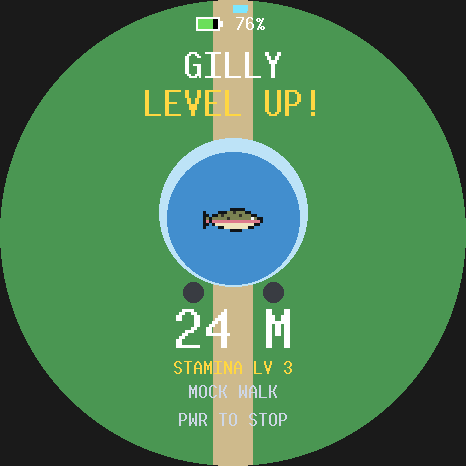
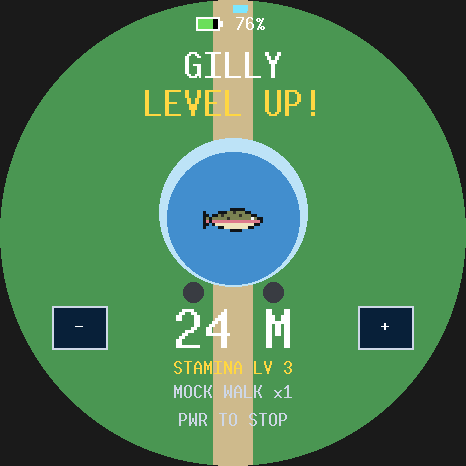
pals_game: mock walks fast-forward. The town's MOCK WALK steps x1, x2, x5, x10, x25 and then off; - and + on the walk screen change the pace mid-walk, and the pace is saved with the setting (PALS flags bits 1-3)

Changed region(s): [[0.0901, 0.6309, 0.2403, 0.7511], [0.7511, 0.6309, 0.9013, 0.7511], [0.3605, 0.8112, 0.6309, 0.8712]]

diff --git a/crates/pals_game/src/walk.rs b/crates/pals_game/src/walk.rs
@@ -13,10 +13,10 @@ use orbit_core::{
 };
 use orbit_gfx::{Point, Rgb565, SCREEN_CENTER, Shape};
 use orbit_ui::{
-    CLICK, DEEP, GOLD, HINT, TEXT, TOAST, battery_level, dial_choice, dial_point, disc, label,
-    label_at, power_overlay, rect, rgb,
+    CLICK, DEEP, GOLD, HINT, TEXT, TOAST, battery_level, button, dial_choice, dial_point, disc,
+    label, label_at, power_overlay, rect, rgb,
 };
-use pals::{MockWalk, Pals, Trail};
+use pals::{MOCK_PACES, MockWalk, Pals, Trail};
 
 use crate::fish;
 
@@ -32,6 +32,14 @@ const LEVEL_UP_SECS: f32 = 10.0;
 /// Without a fix this long, the walk suggests a mock walk.
 pub const NO_SKY_SECS: f32 = 60.0;
 const NAME_RING: f32 = 160.0;
+
+pub mod ui {
+    pub use orbit_ui::Button;
+
+    /// On a mock walk: fast-forward it, or slow it back down.
+    pub const SLOWER: Button = Button::new(52, 306, 56, 44, "-");
+    pub const FASTER: Button = Button::new(358, 306, 56, 44, "+");
+}
 
 #[derive(Clone, Debug, PartialEq)]
 pub enum WalkPhase {
@@ -136,7 +144,7 @@ fn stroll(
                     next = Some(WalkPhase::Walking {
                         pet,
                         trail: Trail::default(),
-                        mock: mock_walk.then(MockWalk::default),
+                        mock: mock_walk.then(|| MockWalk::at_pace(MOCK_PACES[pals.mock_pace])),
                         fraction_m: 0.0,
                         unsaved_m: 0.0,
                         secs: 0.0,
@@ -162,6 +170,21 @@ fn stroll(
             from_level,
         } => {
             *secs += dt;
+            if let Some(mock) = mock.as_mut() {
+                let faster = tap.is_some_and(|at| ui::FASTER.hit(at));
+                let slower = tap.is_some_and(|at| ui::SLOWER.hit(at));
+                let pace = match (faster, slower) {
+                    (true, _) => (pals.mock_pace + 1).min(MOCK_PACES.len() - 1),
+                    (_, true) => pals.mock_pace.saturating_sub(1),
+                    _ => pals.mock_pace,
+                };
+                if pace != pals.mock_pace {
+                    pals.mock_pace = pace;
+                    mock.set_pace(MOCK_PACES[pace]);
+                    save = true;
+                    sound.play(&CLICK);
+                }
+            }
             let fix = match mock {
                 Some(mock) => mock.step(dt),
                 None => fix,
@@ -180,7 +203,7 @@ fn stroll(
                 *levelled_at = Some(*secs);
                 sound.play(&angler_game::audio::CATCH);
             }
-            save = *unsaved_m >= SAVE_EVERY_M || pressed;
+            save |= *unsaved_m >= SAVE_EVERY_M || pressed;
             if save {
                 *unsaved_m = 0.0;
             }
@@ -243,7 +266,7 @@ fn draw_frame(
             let level = format!("STAMINA LV {}", fish.stamina_level());
             shapes.push(label(368, &level, 1, GOLD));
             let status = match (mock, gps.latest()) {
-                (Some(_), _) => "MOCK WALK".into(),
+                (Some(mock), _) => format!("MOCK WALK x{}", mock.pace() as u32),
                 (None, Some(_)) => format!("SATELLITES {}", gps.satellites),
                 (None, None) if *secs >= NO_SKY_SECS => "NO SKY? TRY MOCK WALK".into(),
                 (None, None) => "LOOKING FOR THE SKY".into(),
@@ -253,6 +276,10 @@ fn draw_frame(
                 shapes.push(label(104, "LEVEL UP!", 2, GOLD));
             }
             shapes.push(label(420, "PWR TO STOP", 1, HINT));
+            if mock.is_some() {
+                button(shapes, &ui::SLOWER);
+                button(shapes, &ui::FASTER);
+            }
         }
         WalkPhase::Done {
             pet,

diff --git a/crates/pals_game/tests/walk.rs b/crates/pals_game/tests/walk.rs
@@ -67,7 +67,7 @@ fn a_mock_walk_strolls_on_its_own_and_counts_for_the_fish() {
     let mut app = park(&[("GILLY", 0.0)], true);
     assert!(shows(&app, "WHO IS WALKING?"));
     start_walking(&mut app);
-    assert!(shows(&app, "MOCK WALK"));
+    assert!(shows(&app, "MOCK WALK x1"));
     tick(&mut app, 60 * 120);
     let metres = walked(&app, 0);
     assert!((140..=200).contains(&metres), "two minutes made {metres} m");
@@ -142,4 +142,65 @@ fn done_goes_back_to_choosing_and_back_leaves() {
     app.update();
     click_action(&mut app);
     assert_eq!(app.should_exit(), Some(AppExit::Success));
+}
+
+fn park_at_pace(pace: usize) -> App {
+    let mut tank = Pals::default();
+    tank.mock_walk = true;
+    tank.mock_pace = pace;
+    tank.keep(Pet::new(
+        1,
+        0,
+        150,
+        50,
+        name("GILLY"),
+        &mut orbit_core::Rng::new(2),
+    ))
+    .unwrap();
+    let mut blob = SaveBlob::from_storage(None);
+    pals::save::store(&mut blob, &tank);
+    headless(
+        |app| {
+            app.add_plugins(WalkPlugin);
+        },
+        blob.take_pending(),
+    )
+}
+
+#[test]
+fn a_faster_mock_walk_covers_more_ground_in_the_same_time() {
+    let mut slow = park_at_pace(0);
+    start_walking(&mut slow);
+    assert!(shows(&slow, "MOCK WALK x1"));
+    tick(&mut slow, 60 * 30);
+    let mut fast = park_at_pace(3);
+    start_walking(&mut fast);
+    assert!(shows(&fast, "MOCK WALK x10"));
+    tick(&mut fast, 60 * 30);
+    let (slow_m, fast_m) = (walked(&slow, 0), walked(&fast, 0));
+    assert!((30..=48).contains(&slow_m), "x1 walked {slow_m} m");
+    assert!(fast_m > slow_m * 8, "x10 walked {fast_m} m");
+}
+
+#[test]
+fn faster_and_slower_change_the_pace_mid_walk_and_its_remembered() {
+    let mut app = park_at_pace(0);
+    start_walking(&mut app);
+    tap(&mut app, pals_game::walk::ui::FASTER.center());
+    tap(&mut app, pals_game::walk::ui::FASTER.center());
+    assert!(shows(&app, "MOCK WALK x5"));
+    tap(&mut app, pals_game::walk::ui::SLOWER.center());
+    assert!(shows(&app, "MOCK WALK x2"));
+    let pending = app.world_mut().resource_mut::<SaveBlob>().take_pending();
+    assert_eq!(
+        pals::save::load(&SaveBlob::from_storage(pending)).mock_pace,
+        1
+    );
+}
+
+#[test]
+fn a_real_walk_has_no_pace_buttons() {
+    let mut app = park(&[("GILLY", 0.0)], false);
+    start_walking(&mut app);
+    assert!(!shows(&app, "+") && !shows(&app, "-"));
 }

diff --git a/crates/pals/src/walk.rs b/crates/pals/src/walk.rs
@@ -18,6 +18,9 @@ pub const MAX_WALK_MPS: f32 = 4.5;
 /// The mock walker's pace and how often it reports.
 pub const MOCK_PACE_MPS: f32 = 1.4;
 const MOCK_FIX_SECS: f32 = 1.0;
+/// How many times walking pace a mock walk can go: a fast-forward, so its
+/// fixes still report walking pace and count like a walk.
+pub const MOCK_PACES: [f32; 5] = [1.0, 2.0, 5.0, 10.0, 25.0];
 
 /// The walk so far.
 #[derive(Clone, Copy, Debug, Default, PartialEq)]
@@ -49,10 +52,11 @@ impl Trail {
     }
 }
 
-/// A pretend walker meandering at [`MOCK_PACE_MPS`], reporting a fix each
-/// second like the receiver does.
+/// A pretend walker meandering at [`MOCK_PACE_MPS`] (times its fast-forward),
+/// reporting a fix each second like the receiver does.
 #[derive(Clone, Copy, Debug, PartialEq)]
 pub struct MockWalk {
+    times: f32,
     north_m: f32,
     east_m: f32,
     heading: f32,
@@ -63,6 +67,7 @@ pub struct MockWalk {
 impl Default for MockWalk {
     fn default() -> Self {
         Self {
+            times: 1.0,
             north_m: 0.0,
             east_m: 0.0,
             heading: 0.6,
@@ -73,12 +78,29 @@ impl Default for MockWalk {
 }
 
 impl MockWalk {
+    /// A mock walk going `times` walking pace.
+    pub fn at_pace(times: f32) -> Self {
+        Self {
+            times,
+            ..Self::default()
+        }
+    }
+
+    pub fn set_pace(&mut self, times: f32) {
+        self.times = times;
+    }
+
+    pub fn pace(&self) -> f32 {
+        self.times
+    }
+
     pub fn step(&mut self, dt: f32) -> Option<Fix> {
         self.secs += dt;
         self.heading += 0.15 * ops::sin(self.secs * 0.1) * dt;
         let (sin, cos) = ops::sin_cos(self.heading);
-        self.north_m += cos * MOCK_PACE_MPS * dt;
-        self.east_m += sin * MOCK_PACE_MPS * dt;
+        let stride = MOCK_PACE_MPS * self.times * dt;
+        self.north_m += cos * stride;
+        self.east_m += sin * stride;
         self.until_fix -= dt;
         if self.until_fix > 0.0 {
             return None;

diff --git a/crates/pals/src/save.rs b/crates/pals/src/save.rs
@@ -1,5 +1,6 @@
 //! The `PALS` section of the board's save record, little-endian:
-//! `version | gold u32 | owned hats u32 | flags | pet count | pet*`.
+//! `version | gold u32 | owned hats u32 | flags | pet count | pet*`. Flags:
+//! bit 0 mock walks, bits 1-3 their pace (an index into `MOCK_PACES`).
 //! A pet is `species | tier | length u16 | size | name length | name 8 |
 //! hat (0xFF none) | walked u32 | trick*5`, and a trick is
 //! `id | learned | gesture (0 none) | has word | word print?`. Version 1's
@@ -15,12 +16,15 @@ use crate::{
     gesture::Gesture,
     pet::{MAX_NAME, Name, Pet, TrickSlot, Trigger},
     tricks::{TRICKS, TRICKS_PER_PET},
+    walk::MOCK_PACES,
 };
 
 pub const KEY: [u8; 4] = *b"PALS";
 const VERSION: u8 = 2;
 const OLD_PRINT_BYTES: usize = 145;
 const MOCK_WALK: u8 = 1;
+const PACE_SHIFT: u8 = 1;
+const PACE_BITS: u8 = 0b111;
 const NO_HAT: u8 = 0xFF;
 
 pub fn encode(pals: &Pals) -> Vec<u8> {
@@ -28,7 +32,8 @@ pub fn encode(pals: &Pals) -> Vec<u8> {
     out.push(VERSION);
     out.extend_from_slice(&pals.gold.to_le_bytes());
     out.extend_from_slice(&pals.owned_hats_mask().to_le_bytes());
-    out.push(if pals.mock_walk { MOCK_WALK } else { 0 });
+    let mock = if pals.mock_walk { MOCK_WALK } else { 0 };
+    out.push(mock | (pals.mock_pace as u8 & PACE_BITS) << PACE_SHIFT);
     out.push(pals.pets.len() as u8);
     for pet in &pals.pets {
         out.extend_from_slice(&[pet.species, pet.tier]);
@@ -64,7 +69,9 @@ pub fn decode(bytes: &[u8]) -> Option<Pals> {
         ..Pals::default()
     };
     pals.set_owned_hats(reader.u32()?);
-    pals.mock_walk = reader.byte()? & MOCK_WALK != 0;
+    let flags = reader.byte()?;
+    pals.mock_walk = flags & MOCK_WALK != 0;
+    pals.mock_pace = usize::from(flags >> PACE_SHIFT & PACE_BITS).min(MOCK_PACES.len() - 1);
     let count = usize::from(reader.byte()?);
     if count > MAX_PETS {
         return None;

diff --git a/crates/pals_game/src/town/draw.rs b/crates/pals_game/src/town/draw.rs
@@ -132,25 +132,23 @@ fn settings(shapes: &mut Vec<Shape>, pals: &Pals, sound: &SoundQueue, pointed: u
     shapes.push(rect(0, 0, 466, 466, DEEP));
     shapes.push(label(170, "SETTINGS", 2, TEXT));
     shapes.push(label(292, "TURN TO PICK, PWR", 1, HINT));
-    let texts = [
-        if sound.muted() {
-            "SOUND OFF"
-        } else {
-            "SOUND ON"
-        },
-        if pals.mock_walk {
-            "MOCK WALK ON"
-        } else {
-            "MOCK WALK OFF"
-        },
-        "RESET",
-        "BACK",
-    ];
+    let mock = if pals.mock_walk {
+        format!("MOCK WALK x{}", pals::MOCK_PACES[pals.mock_pace] as u32)
+    } else {
+        "MOCK WALK OFF".into()
+    };
+    let sound = if sound.muted() {
+        "SOUND OFF"
+    } else {
+        "SOUND ON"
+    };
+    let texts = [sound, mock.as_str(), "RESET", "BACK"];
     for (i, (area, text)) in ui::SETTINGS_BUTTONS.iter().zip(texts).enumerate() {
         let frame = if i == pointed { GOLD } else { HINT };
         labelled_button(shapes, area, text, frame);
     }
     shapes.push(label(400, "MOCK WALKS STROLL ON THEIR OWN", 1, HINT));
+    shapes.push(label(418, "TAP AGAIN TO GO FASTER", 1, HINT));
 }
 
 fn confirm_reset(shapes: &mut Vec<Shape>, erase_pointed: bool) {

diff --git a/crates/pals_game/tests/town.rs b/crates/pals_game/tests/town.rs
@@ -213,12 +213,24 @@ fn settings_mute_the_board_and_turn_on_mock_walks_and_both_are_saved() {
     tap(&mut app, ui::SOUND.center());
     assert!(app.world().resource::<SoundQueue>().muted());
     tap(&mut app, ui::MOCK_WALK.center());
-    assert!(shows(&app, "SOUND OFF") && shows(&app, "MOCK WALK ON"));
+    assert!(shows(&app, "SOUND OFF") && shows(&app, "MOCK WALK x1"));
     let blob = saved(&mut app);
     assert!(preferences::muted(&blob));
     assert!(pals::save::load(&blob).mock_walk);
     tap(&mut app, ui::BACK.center());
     assert_eq!(state(&app).phase, TownPhase::Walking);
+}
+
+#[test]
+fn mock_walk_steps_through_its_paces_then_off() {
+    let mut app = open_settings();
+    for pace in ["x1", "x2", "x5", "x10", "x25"] {
+        tap(&mut app, ui::MOCK_WALK.center());
+        assert!(shows(&app, &format!("MOCK WALK {pace}")), "{pace}");
+    }
+    tap(&mut app, ui::MOCK_WALK.center());
+    assert!(shows(&app, "MOCK WALK OFF"));
+    assert!(!app.world().resource::<Pals>().mock_walk);
 }
 
 #[test]

diff --git a/crates/pals/src/lib.rs b/crates/pals/src/lib.rs
@@ -25,7 +25,7 @@ pub use gesture::{Gesture, Strokes};
 pub use hats::{HATS, Hat};
 pub use pet::{Name, Pet, TrickSlot, Trigger};
 pub use tricks::{Rarity, TRICKS, TRICKS_PER_PET, TrickInfo};
-pub use walk::{MockWalk, Trail};
+pub use walk::{MOCK_PACES, MockWalk, Trail};
 
 /// The tank holds this many.
 pub const MAX_PETS: usize = 3;
@@ -39,8 +39,10 @@ pub struct Pals {
     pub pets: Vec<Pet>,
     pub gold: u32,
     owned_hats: u32,
-    /// Walks stroll on their own instead of following the receiver.
+    /// Walks stroll on their own instead of following the receiver, at
+    /// `walk::MOCK_PACES[mock_pace]` times walking pace.
     pub mock_walk: bool,
+    pub mock_pace: usize,
 }
 
 impl Default for Pals {
@@ -50,6 +52,7 @@ impl Default for Pals {
             gold: 0,
             owned_hats: 1,
             mock_walk: false,
+            mock_pace: 0,
         }
     }
 }

diff --git a/crates/pals_game/src/town/mod.rs b/crates/pals_game/src/town/mod.rs
@@ -299,7 +299,12 @@ fn roam(
                     preferences::set_muted(&mut blob, &mut sound, muted);
                 }
                 Some(1) => {
-                    pals.mock_walk = !pals.mock_walk;
+                    // Off, then each pace in turn, then off again.
+                    match (pals.mock_walk, pals.mock_pace + 1 < pals::MOCK_PACES.len()) {
+                        (false, _) => (pals.mock_walk, pals.mock_pace) = (true, 0),
+                        (true, true) => pals.mock_pace += 1,
+                        (true, false) => (pals.mock_walk, pals.mock_pace) = (false, 0),
+                    }
                     pals::save::store(&mut blob, &pals);
                 }
                 Some(2) => town.phase = TownPhase::ConfirmReset,

diff --git a/desktop/src/snapshots.rs b/desktop/src/snapshots.rs
@@ -200,6 +200,11 @@ fn park(camera: &mut Camera) {
     camera.shoot(&app, "park_walking");
     core_testing::tick(&mut app, 60 * 12);
     camera.shoot(&app, "park_level_up");
+    for _ in 0..2 {
+        core_testing::tap(&mut app, pals_game::walk::ui::FASTER.center());
+    }
+    core_testing::tick(&mut app, 60 * 2);
+    camera.shoot(&app, "park_fast_forward");
     core_testing::click_action(&mut app);
     camera.shoot(&app, "park_done");
 }

diff --git a/crates/pals/tests/pals.rs b/crates/pals/tests/pals.rs
@@ -217,6 +217,7 @@ fn the_tank_gold_hats_and_taught_words_survive_the_save_record() {
     pals.earn(77);
     pals.buy_hat(2);
     pals.mock_walk = true;
+    pals.mock_pace = 3;
     for word in ["fred-spin-170", "fred-flip-170", "fred-bubbles-170"] {
         let mut pet = pet(3, &mut rng);
         pet.walk(1234.5);
